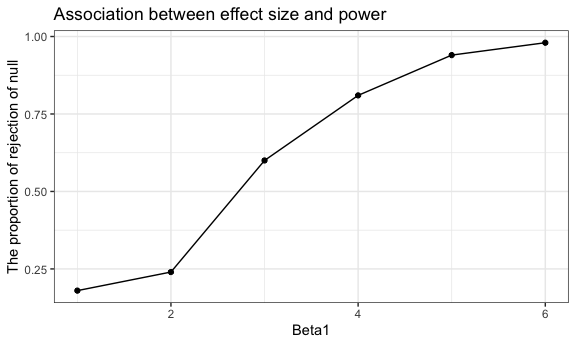
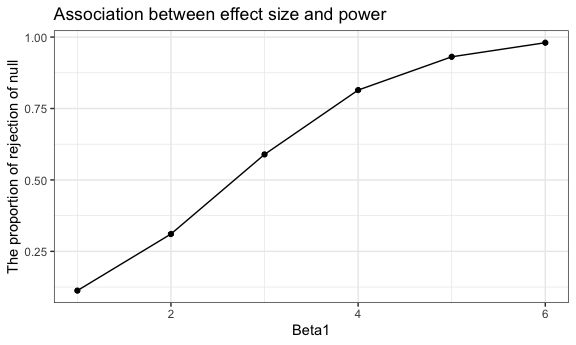
change the loop times to 10000

diff --git a/p8105_hw5_yl4358.md b/p8105_hw5_yl4358.md
@@ -385,7 +385,7 @@ sim_results =
   beta1_set = c(1,2,3,4,5,6)
 ) %>% 
   mutate(
-    output_list = map(.x = beta1_set, ~rerun(100, sim_regression(beta1 = .x))),
+    output_list = map(.x = beta1_set, ~rerun(10000, sim_regression(beta1 = .x))),
     output_df = map(output_list, bind_rows)
   ) %>% 
   select(-output_list) %>% 
